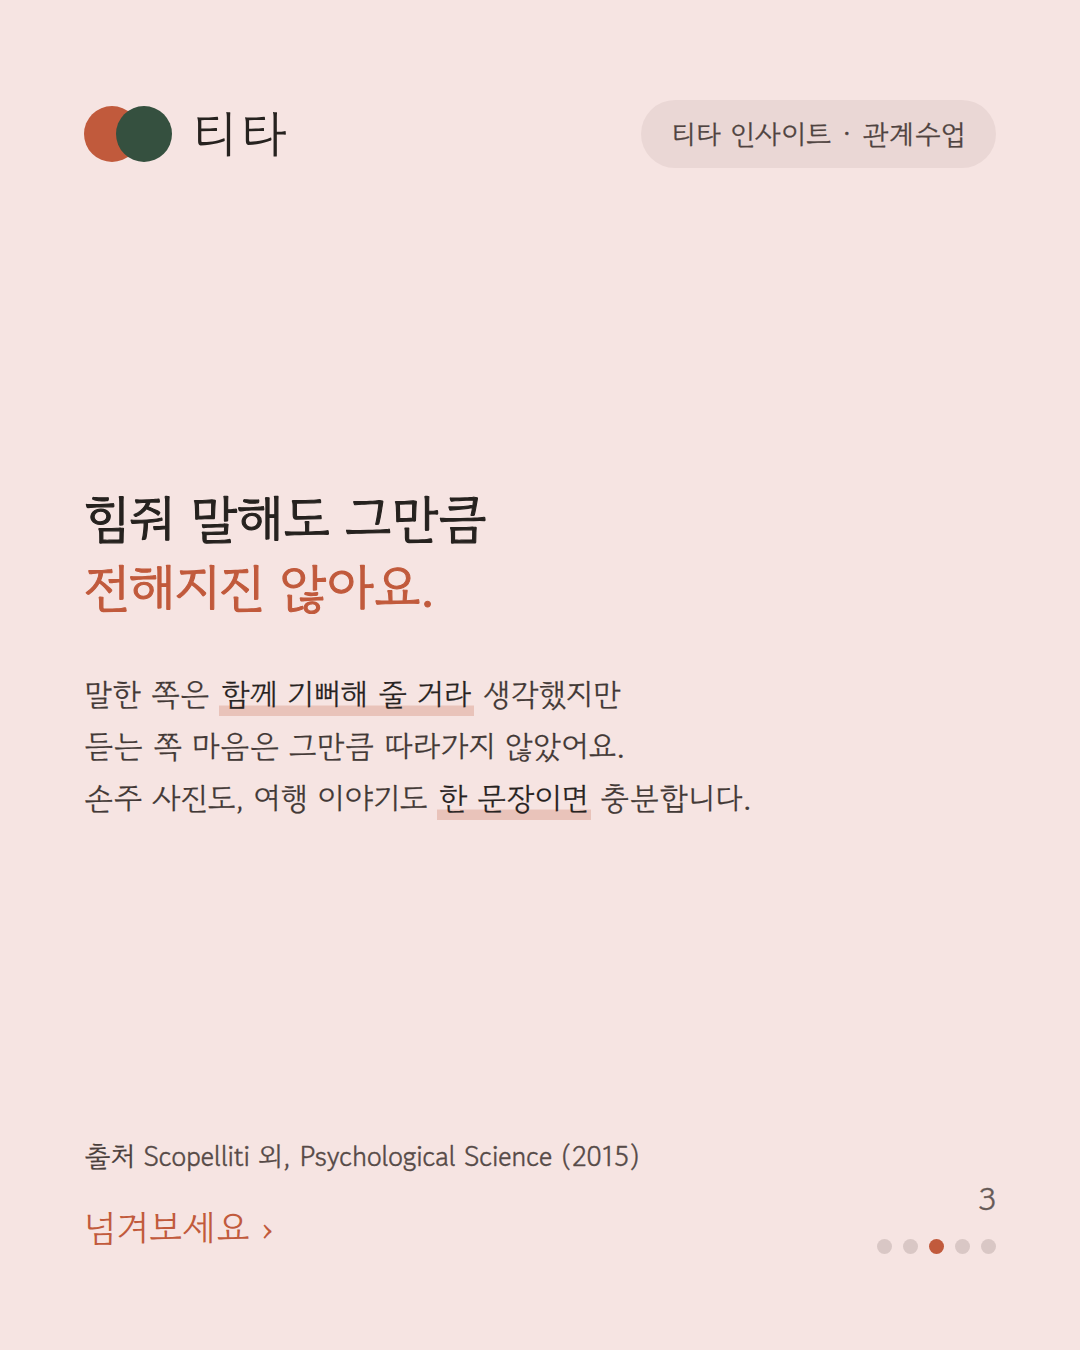
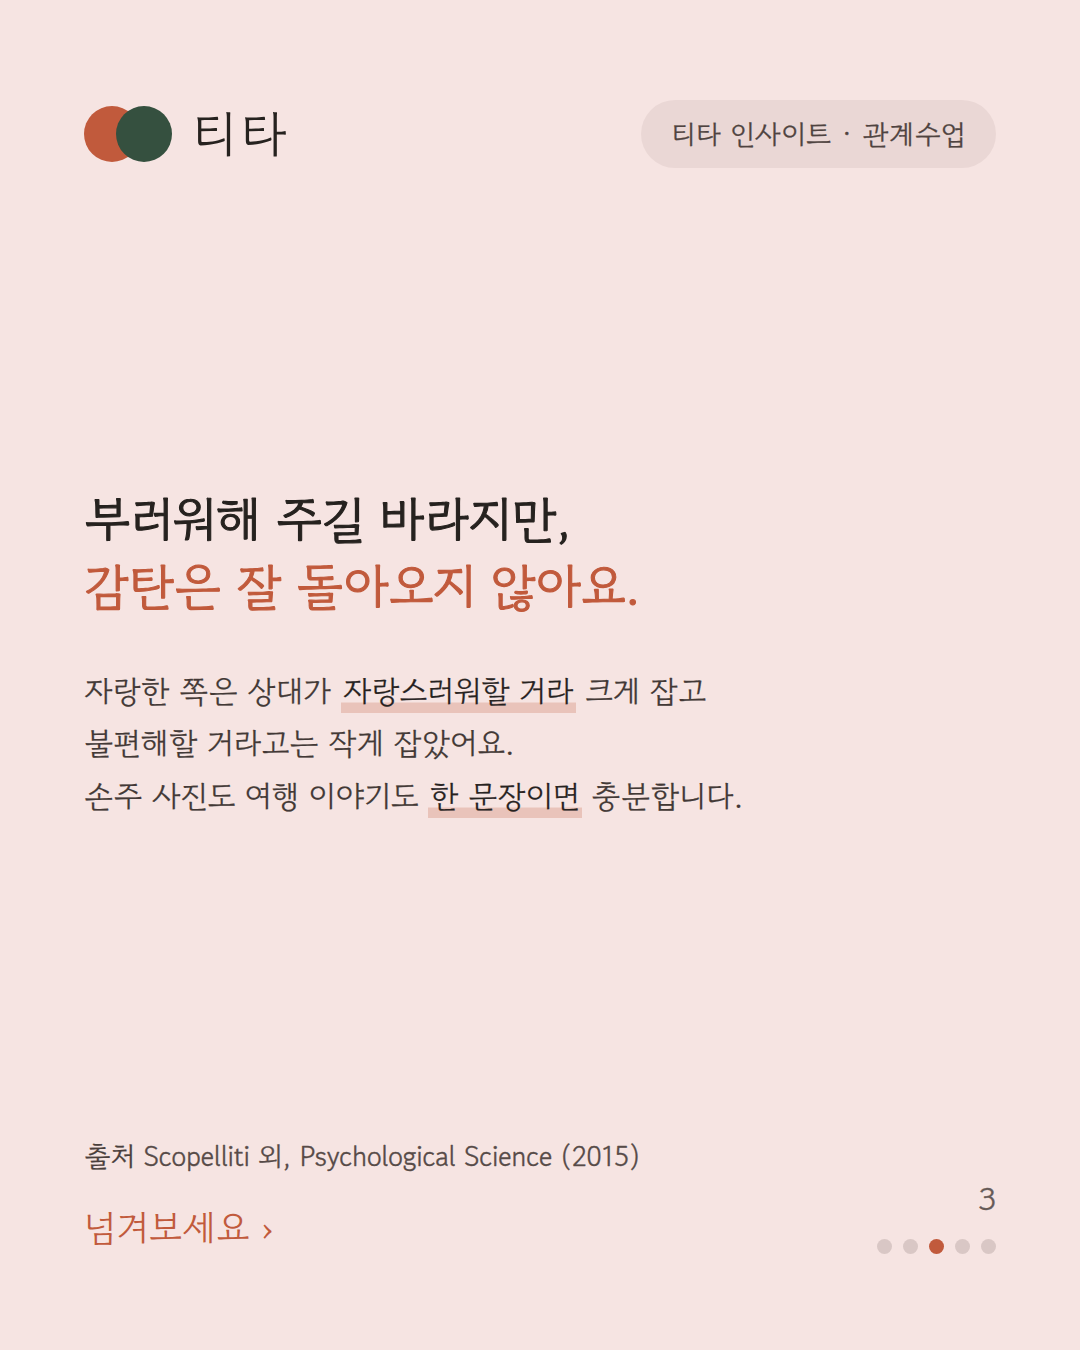
edit(blog): 자랑하는 동기를 있는 그대로 적는다
"말한 쪽은 함께 기뻐해 줄 거라 생각했지만"은 연구가 잰 예측 문항을 그대로
옮긴 것이라 정확하긴 한데, 자랑하는 동기까지 그렇다고 읽히게 만든다.
사람이 손주 사진을 꺼내는 건 상대가 기뻐해 주길 바라서가 아니라 조금 대단해
보이고 싶어서다. 거기를 포장하면 독자가 자기 얘기로 읽지 않는다.

동기를 먼저 인정하고 연구를 뒤에 놓는다. 그러면 결과가 오히려 더 정확히
맞는다 — 부러워해 주길 바라고 꺼낸 말인데 돌아오는 건 그게 아니라는 것.

소제목도 "힘줘 말해도 그만큼 전해지지는 않습니다"에서 "부러워해 주길
바라지만, 감탄은 잘 돌아오지 않습니다"로. 손가락질이 되지 않게 "저도
그렇습니다"를 넣어 글쓴이를 같은 편에 세웠다.

연구 서술도 바로잡았다. 자랑한 쪽이 좋은 반응은 크게, 불편한 반응은 작게
잡았다는 비대칭이 이 연구의 핵심인데 "그만큼 따라가지 않았다"로 뭉개져
있었다. 카드 3도 같은 문구로.

Claude-Session: https://claude.ai/code/session_01SVoaR1M7XWjiBzTKquaj1d

Changed region(s): [[0.0611, 0.4978, 0.6722, 0.6222], [0.0611, 0.3733, 0.5806, 0.4667]]

diff --git a/src/app/blog/posts.ts b/src/app/blog/posts.ts
@@ -117,7 +117,7 @@ export const POSTS: BlogPost[] = [
         type: "callout",
         text: "꾸민 자리는 대개 꾸민 티가 납니다. 그리고 남는 인상은 내용이 아니라 그 티입니다.",
       },
-      { type: "h2", text: "힘줘 말해도, 그만큼 전해지지는 않습니다" },
+      { type: "h2", text: "부러워해 주길 바라지만, 감탄은 잘 돌아오지 않습니다" },
       {
         type: "image",
         src: "/blog/insight-13/card-3.png",
@@ -126,7 +126,7 @@ export const POSTS: BlogPost[] = [
       },
       {
         type: "p",
-        text: "손주 사진을 꺼낼 때, 다녀온 여행 이야기를 할 때. 우리는 상대도 같이 기뻐해 줄 거라 생각하고 말을 이어 갑니다.",
+        text: "손주 사진을 꺼낼 때, 다녀온 여행 이야기를 할 때. 솔직히 그냥 알리고 싶어서만은 아닙니다. **조금 대단해 보이고 싶고, 부러워해 주면 좋겠다는 마음**이 섞여 있습니다. 저도 그렇습니다.",
       },
       {
         type: "p",
@@ -134,15 +134,15 @@ export const POSTS: BlogPost[] = [
       },
       {
         type: "p",
-        text: "말한 쪽은 상대가 **자랑스러워하고 함께 기뻐할 것**이라고 예상했습니다. 듣는 쪽의 마음은 그만큼 따라가지 않았습니다. 말한 쪽은 **좋은 반응은 크게 잡고, 불편한 반응은 작게 잡았습니다.** 양쪽 다 빗나간 겁니다.",
+        text: "말한 쪽은 상대가 **자랑스러워하고 함께 기뻐할 것**이라고 크게 잡았습니다. 그리고 **불편해할 것**이라고는 작게 잡았습니다. 실제 듣는 쪽의 마음은 그 반대에 가까웠습니다. 양쪽 다 빗나간 겁니다.",
       },
       {
         type: "p",
-        text: "연구팀은 그 이유를 **자기 기분을 상대에게 그대로 옮겨 놓고 짐작하기 때문**이라고 봤습니다. 내가 좋으니 상대도 좋을 거라 여기는 것입니다.",
+        text: "연구팀은 그 이유를 **자기 기분을 상대에게 그대로 옮겨 놓고 짐작하기 때문**이라고 봤습니다. 내가 좋으니 상대도 좋을 거라 여기는 겁니다. 그런데 **부러움과 감탄은 그렇게 옮겨지지 않습니다.**",
       },
       {
         type: "p",
-        text: "그러니 힘줘서 길게 말할 이유가 없습니다. 힘을 준 만큼 더 전해지지 않으니까요. **한 문장이면 충분합니다.** 그다음은 상대에게 물어보는 편이 낫습니다.",
+        text: "그러니 힘줘서 길게 말할 이유가 없습니다. 대단해 보이려고 보탠 만큼이 그대로 남지 않으니까요. **한 문장이면 충분합니다.** 그다음은 상대에게 물어보는 편이 낫습니다. 그게 오히려 오래 기억됩니다.",
       },
       { type: "h2", text: "남 이야기는 그 사람이 아니라 나에게 남습니다" },
       {
